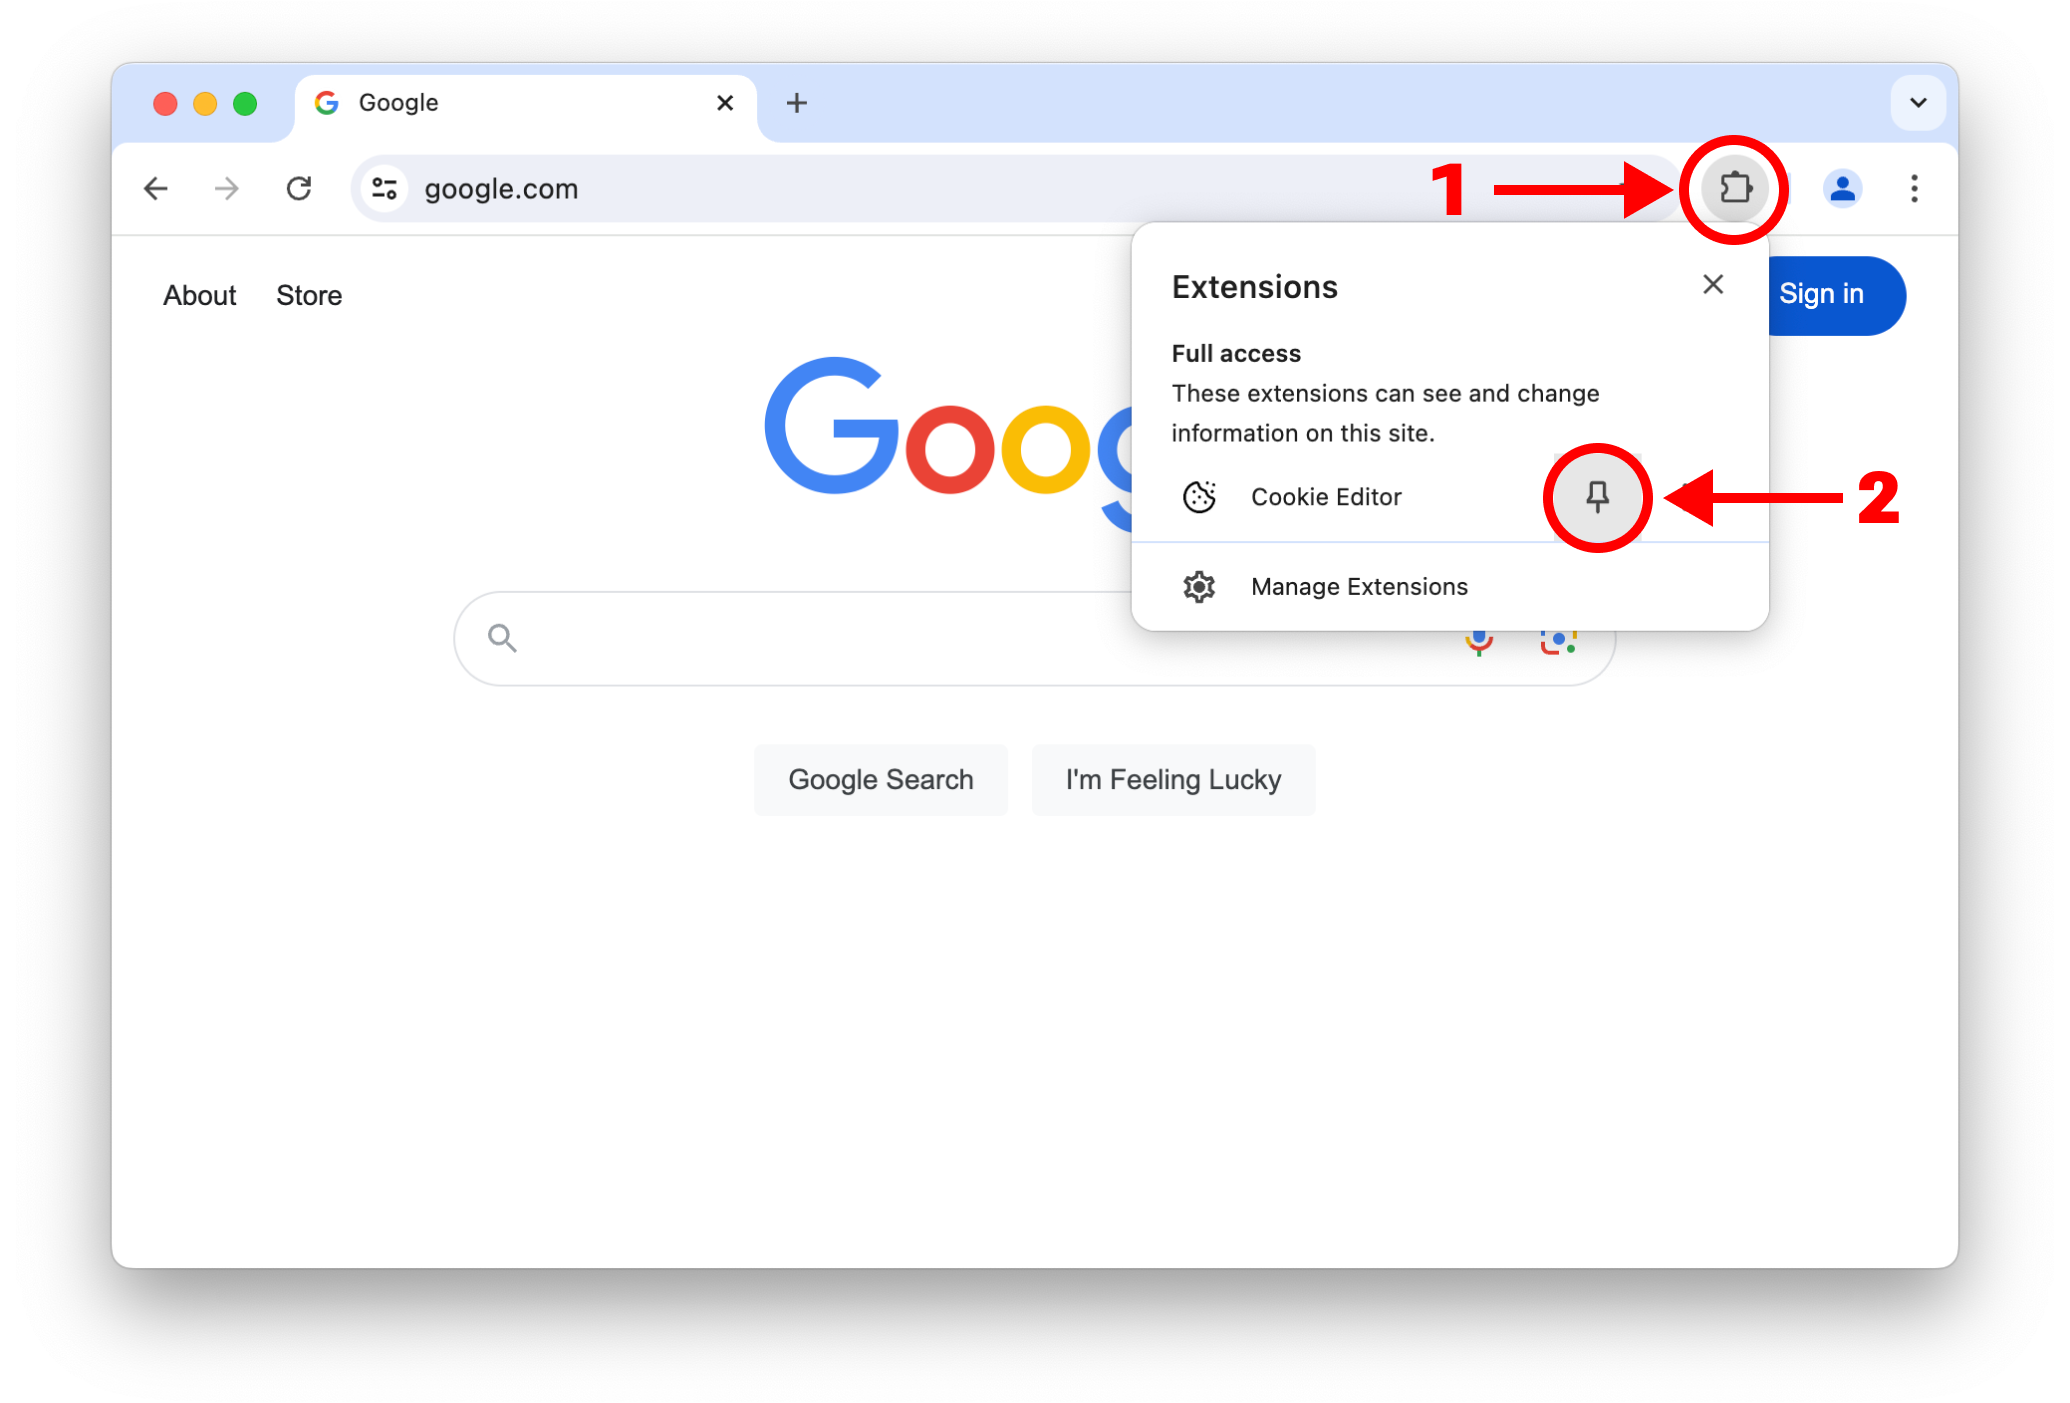
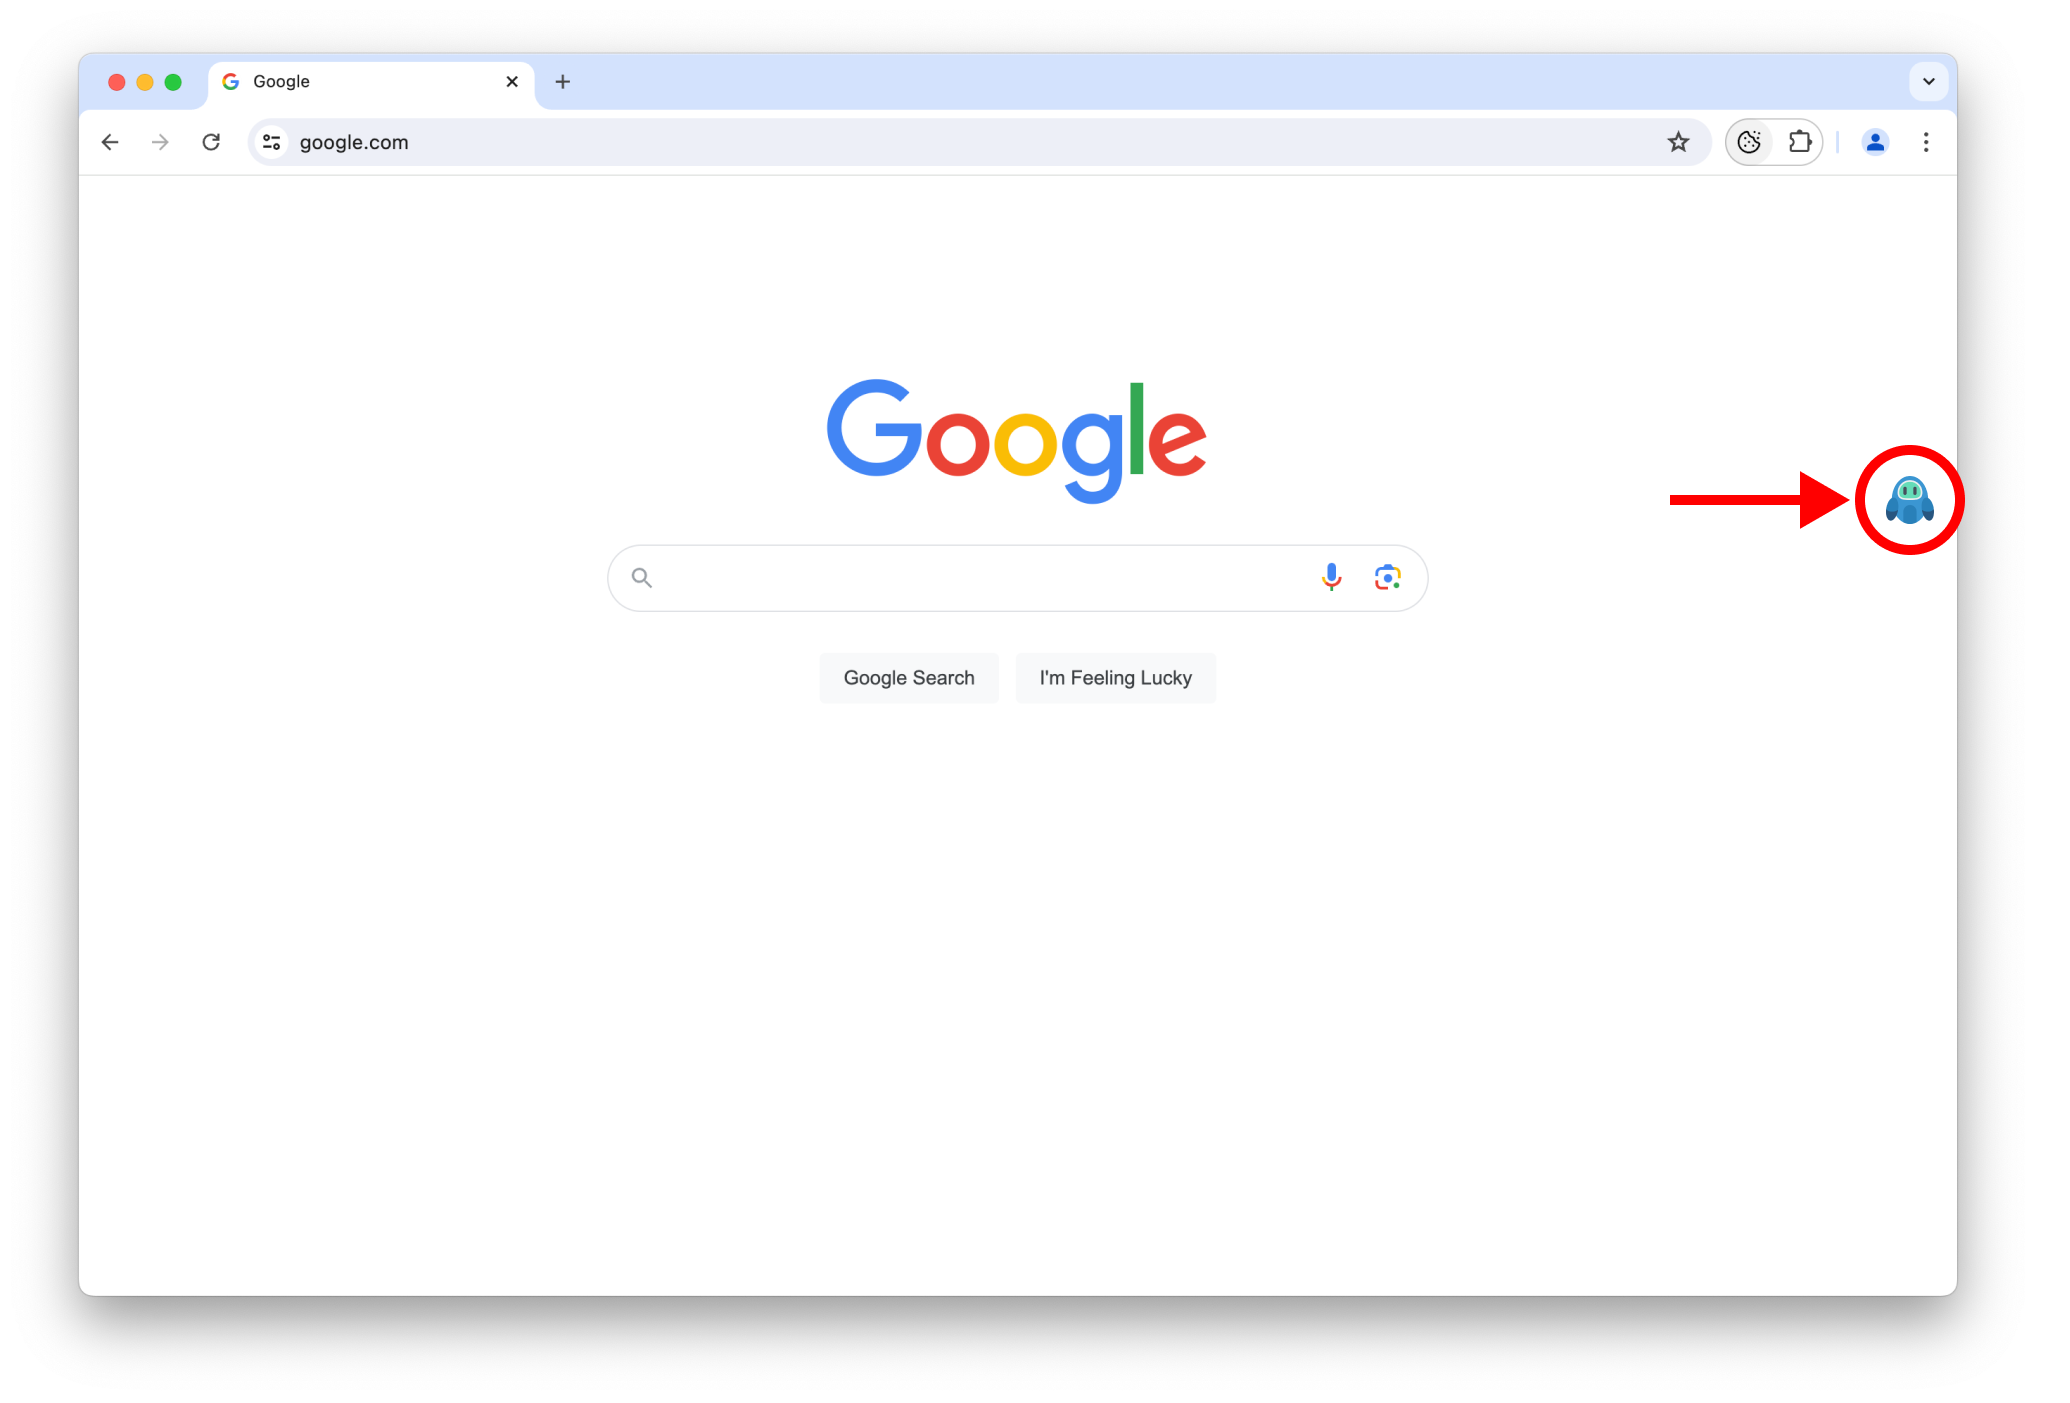
V1

diff --git a/index.html b/index.html
@@ -3,11 +3,11 @@
   <head>
     <meta charset="UTF-8" />
     <meta name="viewport" content="width=device-width, initial-scale=1.0" />
-    <title>Cookie Editor Welcome Guide</title>
+    <title>Claude AI Chat Welcome Guide</title>
     <style>
       body {
-        font-family: Roboto, sans-serif;
-        background-color: #4a54e2;
+        font-family: Inter, sans-serif;
+        background-color: #feb47b;
         margin: 0;
         padding: 20px;
         display: flex;
@@ -16,7 +16,7 @@
         align-items: center;
       }
       .header {
-        background-color: #4a54e2;
+        background-color: #feb47b;
         padding: 20px;
         text-align: center;
         color: white;
@@ -46,19 +46,12 @@
     </style>
   </head>
   <body>
-    <div class="header">Cookie Editor has been installed successfully!</div>
+    <div class="header">Claude AI Chat has been installed successfully!</div>
     <div class="instructions">
       <div class="step">
-        <span class="bold">Click the puzzle piece icon (1)</span> in the top
-        right corner of your browser. Then,
-        <span class="bold">click the small pin icon (2)</span> next to the
-        extension:
+        Click on the <span class="bold">app icon</span> to start chatting with
+        Claude AI:
         <img src="images/Web_Screen1.png" alt="Steps Image 1" />
-      </div>
-      <div class="step">
-        <span class="bold">Open the extension (3)</span> on any page to view and
-        manage your cookies
-        <img src="images/Web_Screen2.png" alt="Steps Image 2" />
       </div>
     </div>
   </body>
